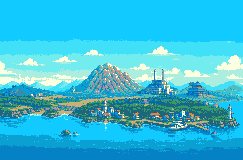
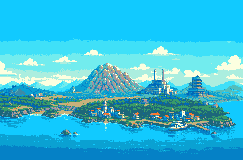
Fix glitching in backdrop

Changed region(s): [[0.893, 0.6562, 1.0, 0.8125], [0.7778, 0.4688, 0.8354, 0.5625]]

diff --git a/tools/pack_title_backdrop.py b/tools/pack_title_backdrop.py
@@ -11,6 +11,7 @@ MAP_WIDTH = 32
 MAP_HEIGHT = 20
 BACKDROP_FIRST_ROW = 1
 BACKDROP_ROWS = 17
+BACKDROP_FIRST_COL = 4
 BG3_TILE_OFFSET = 144
 BACKDROP_TILE_OFFSET = BG3_TILE_OFFSET + 64
 BACKDROP_PAL_NUM = 4
@@ -114,21 +115,74 @@ def make_tile(index_rows, tx, ty):
     return bytes(tile)
 
 
-def tile_distance(left, right):
-    return sum(abs((a & 0xF) - (b & 0xF)) + abs((a >> 4) - (b >> 4)) for a, b in zip(left, right))
+def tile_pixels(tile):
+    pixels = []
+    for byte in tile:
+        pixels.append(byte & 0xF)
+        pixels.append(byte >> 4)
+    return pixels
 
 
-def best_tile_id(tile, tiles):
-    best_id = 0
-    best_distance = None
-    for i, existing in enumerate(tiles):
-        distance = tile_distance(tile, existing)
-        if best_distance is None or distance < best_distance:
-            best_id = i
-            best_distance = distance
-            if distance == 0:
+def weighted_tile_distance(left, right, palette):
+    distance = 0
+    for left_index, right_index in zip(tile_pixels(left), tile_pixels(right)):
+        left_rgb = palette[left_index]
+        right_rgb = palette[right_index]
+        distance += sum((a - b) * (a - b) for a, b in zip(left_rgb, right_rgb))
+    return distance
+
+
+def cluster_tiles(cell_tiles, palette):
+    unique_tiles = []
+    tile_to_id = {}
+    importance = []
+
+    for ty, tile in cell_tiles:
+        if tile not in tile_to_id:
+            tile_to_id[tile] = len(unique_tiles)
+            unique_tiles.append(tile)
+            importance.append(0)
+        tile_id = tile_to_id[tile]
+        importance[tile_id] += 4 if ty >= 12 else 2 if ty >= 8 else 1
+
+    active = set(range(len(unique_tiles)))
+    parent = list(range(len(unique_tiles)))
+
+    while len(active) > MAX_BACKDROP_TILES:
+        best_pair = None
+        best_distance = None
+        active_list = sorted(active)
+        for i, left_id in enumerate(active_list):
+            for right_id in active_list[i + 1:]:
+                distance = weighted_tile_distance(unique_tiles[left_id], unique_tiles[right_id], palette)
+                if best_distance is None or distance < best_distance:
+                    best_distance = distance
+                    best_pair = (left_id, right_id)
+                    if distance == 0:
+                        break
+            if best_distance == 0:
                 break
-    return best_id
+
+        left_id, right_id = best_pair
+        if importance[left_id] < importance[right_id]:
+            left_id, right_id = right_id, left_id
+        parent[right_id] = left_id
+        importance[left_id] += importance[right_id]
+        active.remove(right_id)
+
+    def find(tile_id):
+        while parent[tile_id] != tile_id:
+            parent[tile_id] = parent[parent[tile_id]]
+            tile_id = parent[tile_id]
+        return tile_id
+
+    active_list = sorted(active)
+    active_to_output = {tile_id: i for i, tile_id in enumerate(active_list)}
+    tile_to_output = {
+        tile: active_to_output[find(tile_id)]
+        for tile, tile_id in tile_to_id.items()
+    }
+    return [unique_tiles[tile_id] for tile_id in active_list], tile_to_output
 
 
 def main():
@@ -166,27 +220,28 @@ def main():
         if tile_id < 64:
             write_u16(tilemap, i, (entry & ~0x3FF) | (BG3_TILE_OFFSET + tile_id))
 
-    tile_to_index = {}
-    tiles = []
+    rgb_palette = [(0, 0, 0)] + colors + [(0, 0, 0)] * (15 - len(colors))
+    cell_tiles = []
     for ty in range(BACKDROP_ROWS):
         source_ty = ty + BACKDROP_FIRST_ROW
-        for tx in range(DISPLAY_WIDTH // 8):
-            tile = make_tile(index_rows, tx, source_ty)
-            if tile not in tile_to_index:
-                if len(tiles) < MAX_BACKDROP_TILES:
-                    tile_to_index[tile] = len(tiles)
-                    tiles.append(tile)
-                else:
-                    tile_to_index[tile] = best_tile_id(tile, tiles)
-            tile_id = tile_to_index[tile]
+        for tx in range(BACKDROP_FIRST_COL, DISPLAY_WIDTH // 8):
+            cell_tiles.append((ty, make_tile(index_rows, tx, source_ty)))
+
+    tiles, tile_to_output = cluster_tiles(cell_tiles, rgb_palette)
+
+    cell_index = 0
+    for ty in range(BACKDROP_ROWS):
+        for tx in range(BACKDROP_FIRST_COL, DISPLAY_WIDTH // 8):
+            tile = cell_tiles[cell_index][1]
+            cell_index += 1
+            tile_id = tile_to_output[tile]
             write_u16(
                 tilemap,
                 (BACKDROP_FIRST_ROW + ty) * MAP_WIDTH + tx,
                 (BACKDROP_PAL_NUM << 12) | (BACKDROP_TILE_OFFSET + tile_id),
             )
 
-    palette = [0] + [gba_color(color) for color in colors]
-    palette.extend([0] * (16 - len(palette)))
+    palette = [gba_color(color) for color in rgb_palette]
 
     with open(tiles_path, "wb") as f:
         f.write(b"".join(tiles))
